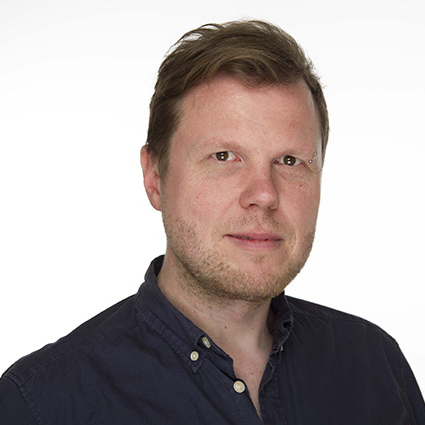
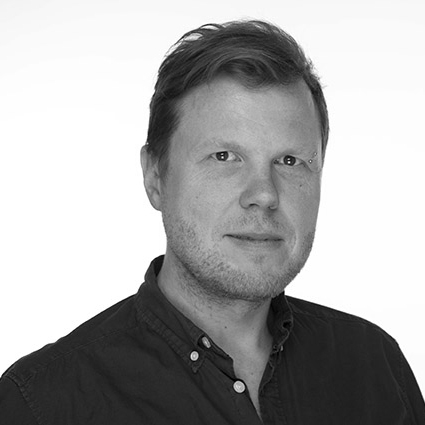
images testamonials

Changed region(s): [[0.3059, 0.0918, 0.7647, 0.9482], [0.5506, 0.0306, 0.5812, 0.0612]]

diff --git a/index.html b/index.html
@@ -38,50 +38,46 @@
 </head>
 
 <body>
-  
+
   <main>
 
-    <responsive-video-background
-    loop
-    webm="video.webm"
-    mp4="assets/videos/herobackground.mp4"
-    poster="assets/images/herobackground.jpg"
-    breakpoint="48rem">
-  
-    <nav>
-      <input class="checkbox" type="checkbox" name="" id="" />
-      <div class="hamburger-lines">
-        <span class="line line1"></span>
-        <span class="line line2"></span>
-        <span class="line line3"></span>
-      </div>
-      <div class="logo-wrapper mlr-16">
-        <img src="./assets/images/logos/MetaProvideVectorBlack.svg" alt="MetaProvide logotype" />
-      </div>
-      <ul class="nav-list">
-        <li class="nav-item white"><a href="/">Home</a></li>
-        <li class="nav-item white"><a href="/team">Team</a></li>
-        <li class="nav-item white"><a href="/platformly">Platformly</a></li>
-        <li class="nav-item white"><a href="https://adminly.org">Adminly</a></li>
-        <li class="nav-item white"><a href="/contact">Contact</a></li>
-        <li class="nav-item white"><a href="/nextcloud-swarm-plugin">Plugin</a></li>
-        <li class="nav-item white"><a href="/blog">Blog</a></li>
-      </ul>
-    </nav>
+    <responsive-video-background loop mp4="assets/videos/herobackground.mp4"
+      poster="./assets/images/herobackground.jpg">
+
+      <nav>
+        <input class="checkbox" type="checkbox" name="" id="" />
+        <div class="hamburger-lines">
+          <span class="line line1"></span>
+          <span class="line line2"></span>
+          <span class="line line3"></span>
+        </div>
+        <div class="logo-wrapper mlr-16">
+          <img src="./assets/images/logos/MetaProvideVectorBlack.svg" alt="MetaProvide logotype" />
+        </div>
+        <ul class="nav-list">
+          <li class="nav-item white"><a href="/">Home</a></li>
+          <li class="nav-item white"><a href="/team">Team</a></li>
+          <li class="nav-item white"><a href="/platformly">Platformly</a></li>
+          <li class="nav-item white"><a href="https://adminly.org">Adminly</a></li>
+          <li class="nav-item white"><a href="/contact">Contact</a></li>
+          <li class="nav-item white"><a href="/nextcloud-swarm-plugin">Plugin</a></li>
+          <li class="nav-item white"><a href="/blog">Blog</a></li>
+        </ul>
+      </nav>
 
 
       <div class="hero-header">
-        <h1
-        ><b>Platforms</b> built for you to keep.<br>
+        <h1><b>Platforms</b> built for you to keep.<br>
           Your platform - your data.<br>
-          <b>Decentralised</b>.</h1>
+          <b>Decentralised</b>.
+        </h1>
 
         <p class="hero-text">We are a team of programmers, product developers, administrators, communicators, and a
           former Buddhist monk
           who started it all. We are here to make a difference, through the services that we’re building.</p>
       </div>
-</responsive-video-background>
-    
+    </responsive-video-background>
+
 
     <section class="platforms-section">
       <h2>Our platforms</h2>
@@ -173,7 +169,7 @@
           </div>
         </div>
         <div class="flex-row nowrap align-center gap-24 mobile-flex-column">
-          <img class="testamonial-image" src="assets/images/henry-400x400.png" alt="#">
+          <img class="testamonial-image" src="assets/images/henry-400x400.png" alt="Henry Bergstrom">
           <div class="flex-column">
             <h4>Henry Bergström</h4>
             <quote>"As Tech Lead, I am thrilled to work for MetaProvide on our mission to empower organisations to start
@@ -185,7 +181,7 @@
           </div>
         </div>
         <div class="flex-row nowrap align-center gap-24 mobile-flex-column">
-          <img class="testamonial-image" src="https://placehold.co/300x300" alt="#">
+          <img class="testamonial-image" src="assets/images/Alexandr Shedogubov.png" alt="Alexandr Shedogubov">
           <div class="flex-column">
             <h4>Alexandr Shedogubov</h4>
             <quote>“Nice to see more and more decentralized tools for everyday work to appear. Guys doing a good job”
@@ -193,16 +189,29 @@
             <p>Envelop</p>
           </div>
         </div>
+
         <div class="flex-row nowrap align-center gap-24 mobile-flex-column">
-          <img class="testamonial-image" src="https://placehold.co/300x300" alt="#">
+          <img class="testamonial-image" src="assets/images/Mirco.png" alt="Matthew McArthur">
+          <div class="flex-column">
+            <h4>Matthew McArthur</h4>
+            <quote>“Decentralised data and collaboration platforms create community and alleviate silos, we all need this for a more ethical, productive world.”
+            </quote>
+            <p>Mindful Design</p>
+          </div>
+        </div>
+
+
+        <div class="flex-row nowrap align-center gap-24 mobile-flex-column">
+          <img class="testamonial-image" src="assets/images/Michal Matlon.png" alt="Michal Matlon">
           <div class="flex-column">
             <h4>Michal Matlon</h4>
             <quote>"A brave attempt at decentralizing organizational software suites!”</quote>
             <p>theLivingCore</p>
           </div>
         </div>
+        
         <div class="flex-row nowrap align-center gap-24 mobile-flex-column">
-          <img class="testamonial-image" src="https://placehold.co/300x300" alt="#">
+          <img class="testamonial-image" src="assets/images/Philippe Perou.png" alt="Philippe Perou">
           <div class="flex-column">
             <h4>Philippe Perou</h4>
             <quote>“Web 2 ended up replicating the constraints of the real world, while Web 3 gives us the opportunity
@@ -216,42 +225,47 @@
     <section class="what-is-swarm-section">
       <h2>What is Swarm / Swarm Partners</h2>
       <div class="max-w-content">
-      <div class="image-wrapper">
-        <img src="./assets/images/swarm-logo.png" alt="logo of swarm">
+        <div class="max-w-100p">
+          <img style="height: 700px; margin: -200px 0px" class="rotate90" src="./assets/images/Swarm Logo.svg" alt="logo of swarm">
+        </div>
+        <p>Swarm is a peer-to-peer network of Bee Nodes that collectively provide censorship-resistant decentralised
+          storage and communication services. Swarm's mission is to shape the future towards a self-sovereign global
+          society and permissionless open markets by providing scalable base-layer data storage infrastructure for the
+          decentralised internet. Its incentive system is enforced through smart contracts on the Gnosis Chain
+          blockchain
+          and powered by the xBZZ token, making it economically self-sustaining.
+        </p>
+        <div class="three-columns max-w-content m-auto justify-between pb-32 align-center">
+          <img style="height: 200px; justify-self: center" class="rotate90 w-200" src="assets/images/The Living Core Logo.svg" alt="log1">
+          <img style="height: 200px; justify-self: center" class="rotate90 w-200" src="assets/images/Envelop Logo.svg" alt="log2">
+          <img style="height: 100px;" src="assets/images/Company3 Logo.svg" alt="log3">
+        </div>
       </div>
-      <p>Swarm is a peer-to-peer network of Bee Nodes that collectively provide censorship-resistant decentralised
-        storage and communication services. Swarm's mission is to shape the future towards a self-sovereign global
-        society and permissionless open markets by providing scalable base-layer data storage infrastructure for the
-        decentralised internet. Its incentive system is enforced through smart contracts on the Gnosis Chain blockchain
-        and powered by the xBZZ token, making it economically self-sustaining.
-      </p>
-      <div class="flex-row w-80 m-auto nowrap justify-between mb-32">
-        <img class="w-auto" src="https://placehold.co/100" alt="log1"><img class="w-auto" src="https://placehold.co/100"
-          alt="log2"><img class="w-auto" src="https://placehold.co/100" alt="log3">
-      </div>
-    </div>
     </section>
 
     <section class="blogs-section">
       <h2>Latest Blogs</h2>
       <div class="three-columns gap-8 max-w-content">
-        <div>
+        <div class="block-hover">
           <a href="./blog/web3-value-autonomy">
-          <img src="assets/images/cryptocurrency.jpg" alt="Web3 - Reclaiming Identity Autonomy" />
-          <h3>Web3 - Reclaiming Value Autonomy | September 2023</h3>
-        </a>
-        </div>
-        <div>
-          <a href="./blog/web3-reclaiming-identity-autonomy">
-          <img src="assets/images/identityautonomy.jpg" alt="Web3 - Reclaiming Identity Autonomy" />
-          <h3>Web3 - Reclaiming Identity Autonomy | August 2023</h3>
+            <img src="assets/images/cryptocurrency.jpg" alt="Web3 - Reclaiming Identity Autonomy" />
+            <h3>Web3 - Reclaiming Value Autonomy</h3>
+            <p>September 2023</p>
           </a>
         </div>
-        <div>
+        <div class="block-hover">
+          <a href="./blog/web3-reclaiming-identity-autonomy">
+            <img src="assets/images/identityautonomy.jpg" alt="Web3 - Reclaiming Identity Autonomy" />
+            <h3>Web3 - Reclaiming Identity Autonomy</h3>
+            <p>August 2023</p>
+          </a>
+        </div>
+        <div class="block-hover" >
           <a href="./blog/web3-reclaiming-data-sovereignty">
-          <img src="/assets/images/Nalanda_Ruins.jpg" alt="Web3 - Reclaiming Data Sovereignty">
-          <h3>Web3 - Reclaiming Data Sovereignty | August 2023</h3>
-        </a>
+            <img src="/assets/images/Nalanda_Ruins.jpg" alt="Web3 - Reclaiming Data Sovereignty">
+            <h3>Web3 - Reclaiming Data Sovereignty</h3>
+            <p>August 2023</p>
+          </a>
         </div>
       </div>
     </section>

diff --git a/assets/styles/main.css b/assets/styles/main.css
@@ -325,6 +325,10 @@ video {
   margin: auto;
 }
 
+.w-200 {
+  width: 200px;
+}
+
 .max-w-800 {
   max-width: 800px;
   margin: auto;
@@ -333,6 +337,10 @@ video {
 .max-w-content {
   max-width: var(--content-max-width);
   margin: auto;
+}
+
+.rotate90 {
+  transform: rotate(-90deg);
 }
 
 .plr-8 {
@@ -366,6 +374,10 @@ video {
 .mlr-16 {
   margin-right: 16px;
   margin-left: 16px;
+}
+
+.pb-32 {
+  padding-bottom: 32px;
 }
 
 .mb-32 {
@@ -502,7 +514,7 @@ video {
 
 .testamonial-text,
 quote {
-  font-size: 12px;
+  font-size: 14px;
 }
 
 .team-member-card q {
@@ -513,6 +525,10 @@ quote {
 
 .hamburger-lines {
   display: none;
+}
+
+.block-hover:hover {
+  background-color: var(--mp-color-green);
 }
 
 input[type="text"] {
@@ -589,6 +605,13 @@ nav .checkbox {
   grid-gap: 16px;
 }
 
+.one-row {
+  width: 100%;
+  display: grid;
+  grid-template-rows: 1fr;
+  justify-content: space-between;
+}
+
 .flex-column {
   display: flex;
   flex-direction: column;
@@ -659,6 +682,10 @@ nav .checkbox {
   margin-right: 10px;
 }
 
+.max-w-100p {
+  max-width: 100%;
+}
+
 /* TODO: make this work! */
 .testamonial-card {
   display: flex;
@@ -681,6 +708,10 @@ nav .checkbox {
   --content-max-width: 600px;
 }
 
+
+  section.what-is-swarm-section {
+    padding-top: 32px !important;
+  }
 
   section.platforms-section,
   section.what-is-swarm-section,
@@ -824,6 +855,11 @@ nav .checkbox {
 
   nav input[type="checkbox"]:checked~.hamburger-lines .line3 {
     transform: rotate(-45deg);
+  }
+
+  .one-row {
+    grid-template-rows: unset;
+    grid-template-columns: 1fr;
   }
 
   video {

diff --git a/team.html b/team.html
@@ -31,7 +31,8 @@
         <li class="nav-item"><a href="areas">Areas</a></li>
         <li class="nav-item"><a href="team">Team</a></li>
         <li class="nav-item"><a href="platformly">Platformly</a></li>
-        <li class="nav-item"><a href="https://adminly.org" target="_blank">Adminly</a></li>        <li class="nav-item"><a href="contact">Contact</a></li>
+        <li class="nav-item"><a href="https://adminly.org" target="_blank">Adminly</a></li>        
+        <li class="nav-item"><a href="contact">Contact</a></li>
         <li class="nav-item"><a href="nextcloud-swarm-plugin">Plugin</a></li>
         <li class="nav-item"><a href="blog/">Blog</a></li>
       </ul>
